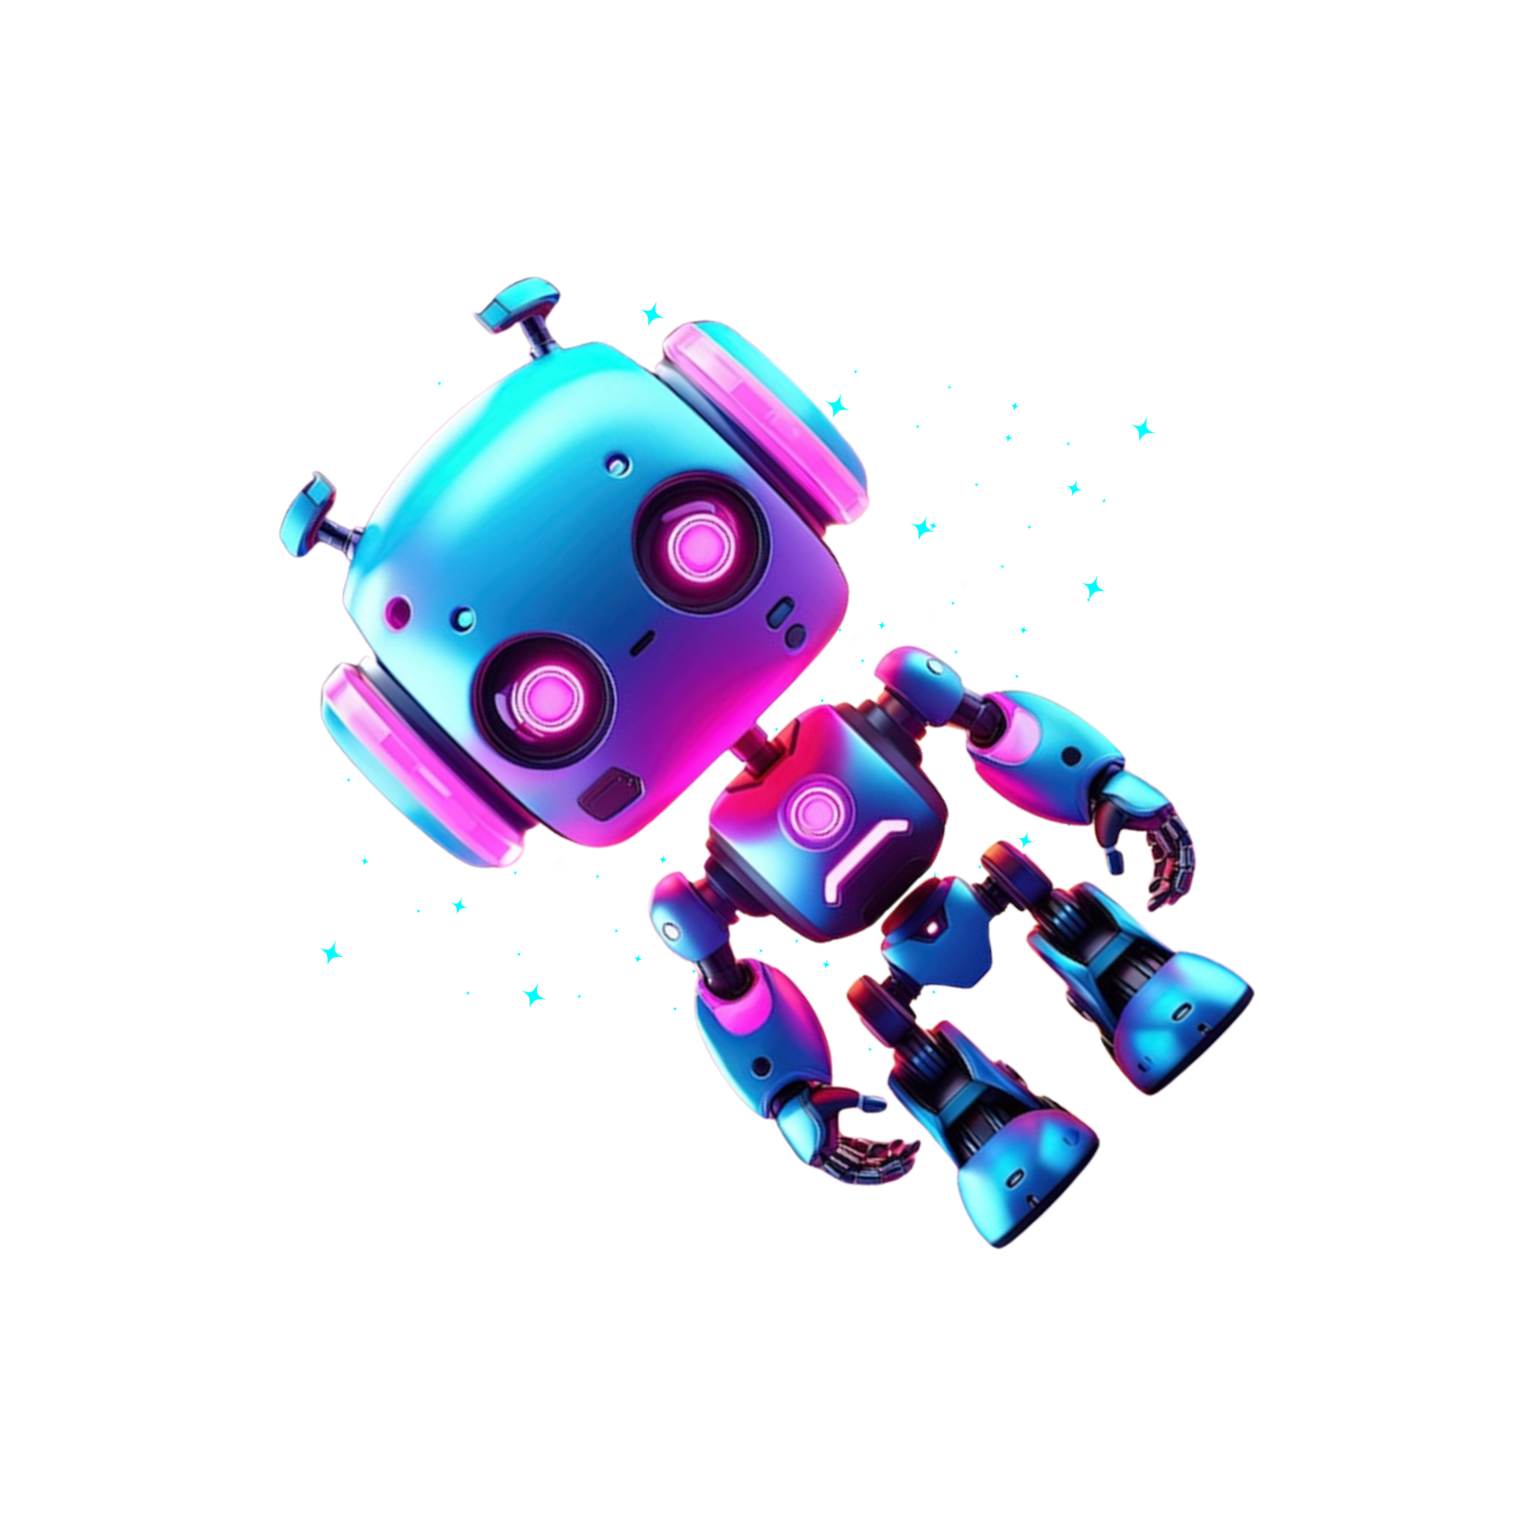
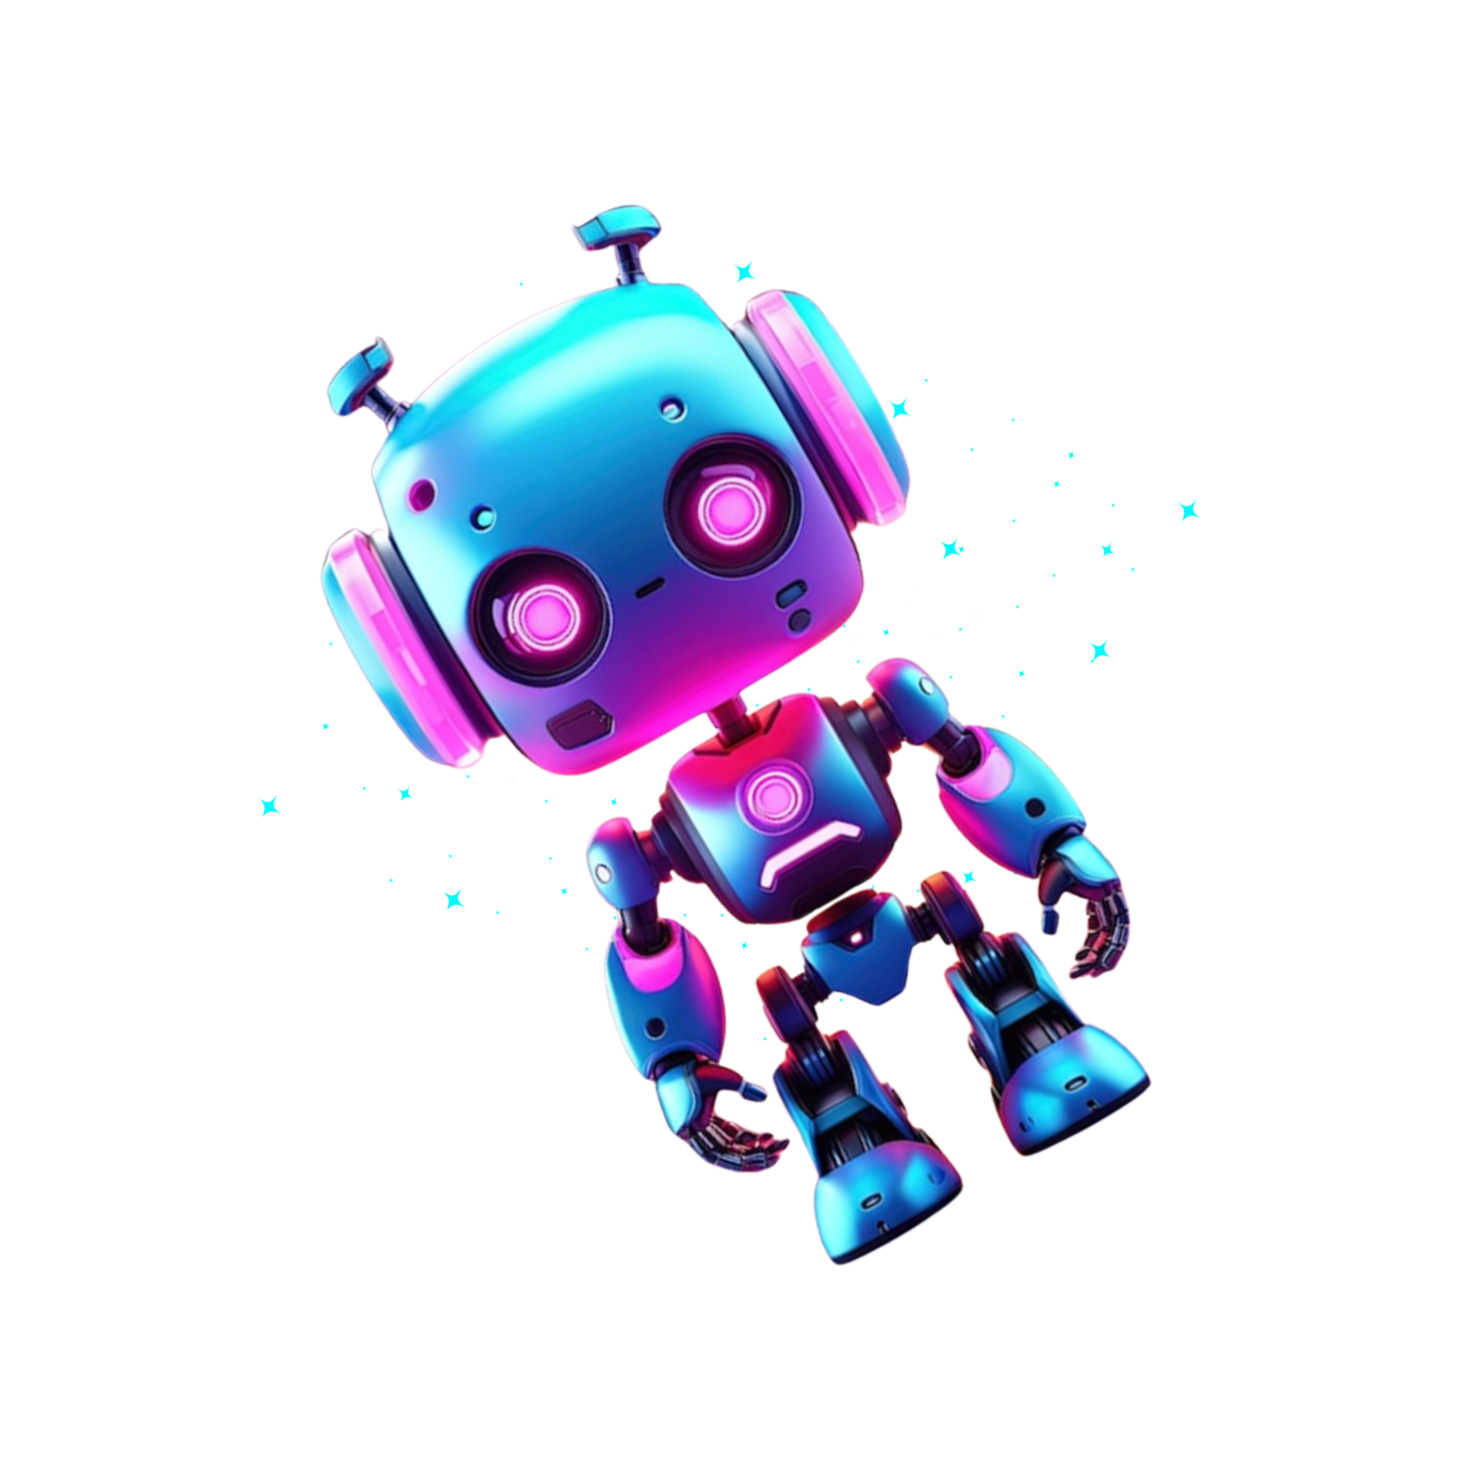
Bienvenida

Changed region(s): [[0.1871, 0.1247, 0.842, 0.8732]]

diff --git a/src/app/components/bienvenida/bienvenida.component.css b/src/app/components/bienvenida/bienvenida.component.css
@@ -23,7 +23,7 @@
 
 .bienvenida-logo {
   display: block;
-  margin-bottom: -190px;
+  margin-bottom: -430px;
   width: 550px;
   height: auto; 
 }
@@ -55,28 +55,15 @@
 .bienvenida-text h1,
 .bienvenida-content h1 {
   font-size: 2.4rem;
-  font-weight: bold;
   margin: 0;
-  margin-top: 0;
+  margin-top: 230px;
+  width: 100%;
   line-height: 1.2;
   color: #fff;
   text-align: center;
   font-family: 'Montserrat', Arial, Helvetica, sans-serif;
   letter-spacing: 0.5px;
 }
-
-.bienvenida-robot {
-  position: absolute;
-  right: 7vw;
-  bottom: 0;
-  width: 420px;
-  max-width: 40vw;
-  z-index: 1;
-  pointer-events: none;
-  user-select: none;
-}
-
-
 
 .right-img[_ngcontent-qbj-c150] img[_ngcontent-qbj-c150] {
     width: 100%;
@@ -88,3 +75,40 @@ img {
     overflow: clip;
 }
 
+.bienvenida-robot {
+  position: absolute;
+  right: -200px;      
+  bottom: -250px;
+  width: 800px;    
+  max-width: 50vw; 
+  z-index: 1;
+  pointer-events: none;
+  user-select: none;
+}
+
+.btn-ticket-container {
+  width: 100%;
+  display: flex;
+  justify-content: center;
+  margin-top: 40px;
+}
+
+.btn-ticket {
+  background: #b88cff;
+  color: #fff;
+  font-size: 1.3rem;
+  font-family: 'Montserrat', Arial, Helvetica, sans-serif;
+  border: none;
+  border-radius: 4px;
+  padding: 18px 60px;
+  margin-bottom: 30px;
+  margin-top: 10px;
+  cursor: pointer;
+  font-weight: 500;
+  letter-spacing: 1px;
+  transition: background 0.2s;
+  box-shadow: 0 2px 8px rgba(0,0,0,0.08);
+}
+.btn-ticket:hover {
+  background: #8540da;
+}

diff --git a/src/app/components/bienvenida/bienvenida.component.html b/src/app/components/bienvenida/bienvenida.component.html
@@ -2,8 +2,11 @@
   <div class="bienvenida-content">
     <img src="assets/logo.png" alt="Payment Latam" class="bienvenida-logo">
     <div class="bienvenida-text">
-        <h1>¡Bienvenido a nuestro canal <br> de atención al cliente!</h1>
+      <h1>¡Bienvenido a nuestro canal <br> de atención al cliente!</h1>
+    </div>
+    <div class="btn-ticket-container">
+      <button class="btn-ticket">GENERA TU TICKET</button>
     </div>
   </div>
-  <img _ngcontent-qbj-c150 src="assets/robot.png" alt="Robot" class="bienvenida-robot">
+  <img src="assets/robot.png" alt="Robot" class="bienvenida-robot">
 </div>
